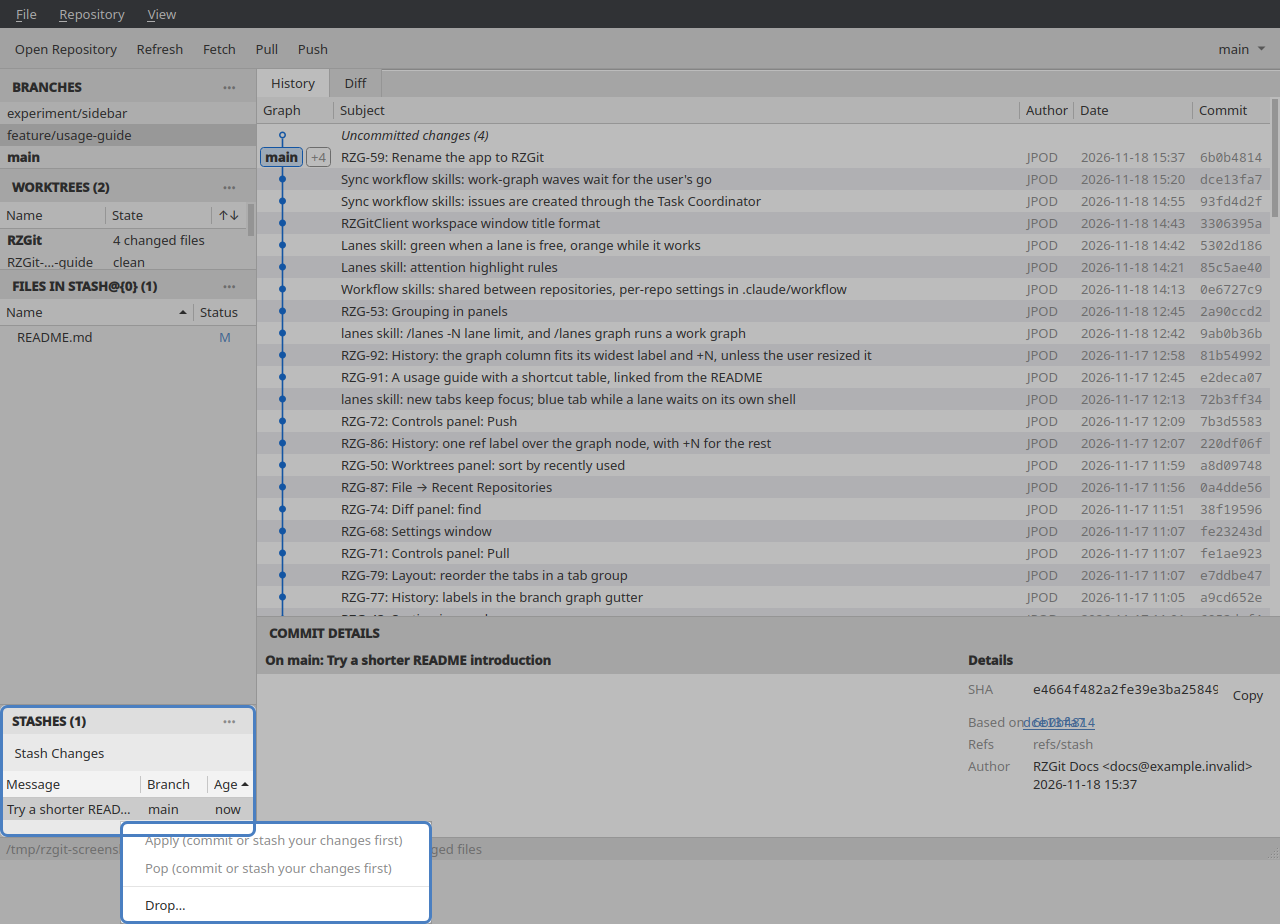
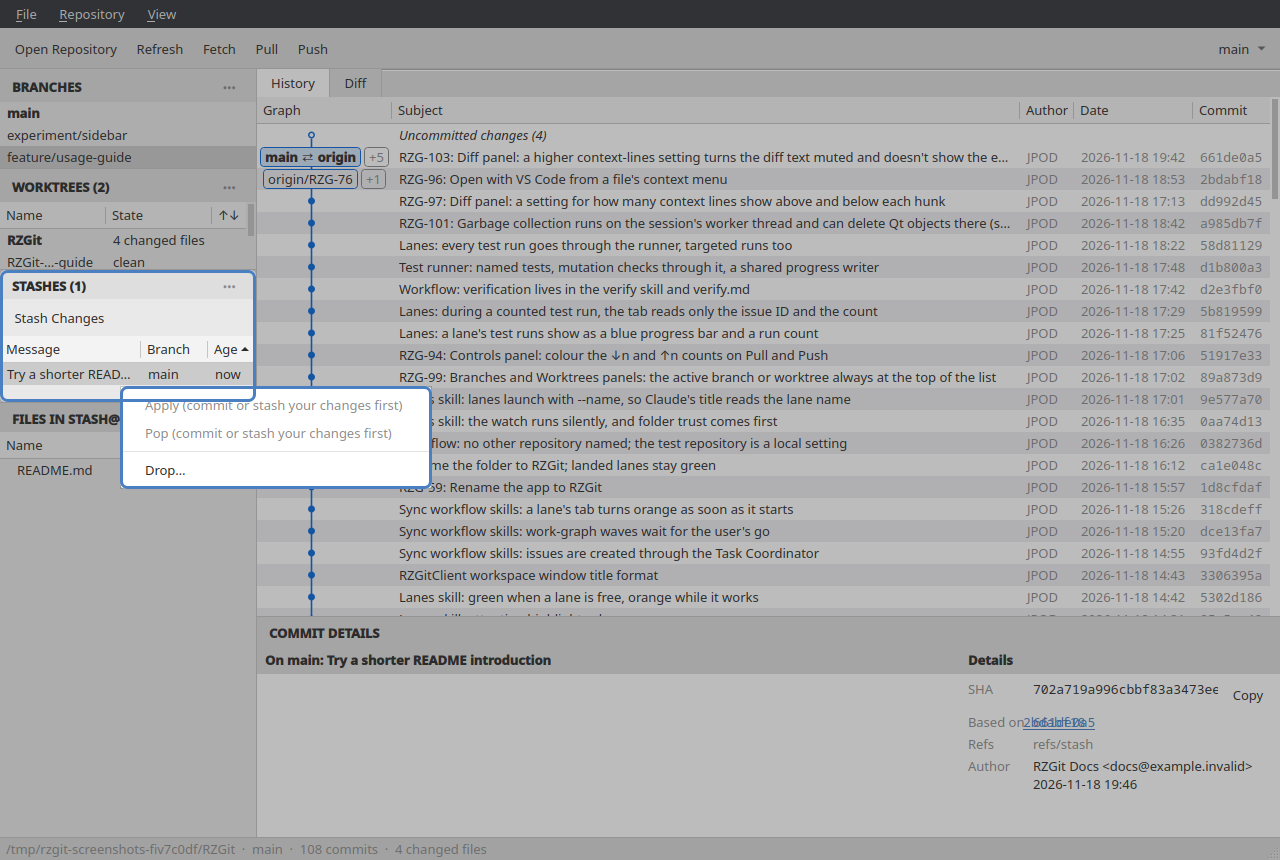
RZG-93: Layout presets: Commit at the bottom of the Sidebar
Standard is now Branches, Worktrees, Stashes, Unstaged Files, Staged Files,
Commit, with Commit Files (size 0) below Commit, so it still takes their place
when a commit is selected. Sidebar Tabs and Stacked already had Commit at the
bottom of their column. A window on the old Standard gets the new one (§6.3);
saved layouts stay. The user guide's overview table and every screenshot follow
the new order.

Also: test_refresh_emits_only_what_changed gives its second commit a later
date and expects branches_changed (Branch.date), so it no longer fails when
the two commits fall in different seconds.

diff --git a/tests/test_layout_presets.py b/tests/test_layout_presets.py
@@ -40,6 +40,22 @@ CUSTOM = LayoutState(
      Area.MAIN: SplitNode(H, (HISTORY, DIFF, DETAILS), sizes=(300, 200, 100))},
     Arrangement.SIDEBAR_RIGHT, (200, 500))
 
+def _column_of(node, panel):
+    """The split that holds ``panel`` directly."""
+    if isinstance(node, SplitNode):
+        if panel in node.children:
+            return node
+        return next((c for c in map(lambda n: _column_of(n, panel), node.children) if c), None)
+    return None
+
+
+# Standard as one tree since RZG-93: Stashes below Worktrees, Commit at the bottom.
+STANDARD = SplitNode(V, (CONTROLS, SplitNode(H, (
+    SplitNode(V, tuple(P(p) for p in ("branches", "worktrees", "stash", "files", "staged",
+                                      "commit", "commit_files")),
+              sizes=(180, 140, 170, 220, 120, 160, 0)),
+    MAIN), sizes=(220, 880))))
+
 # The presets as one tree, as they were before areas (RZG-69).
 OLD_PRESETS = {
     "Standard": SplitNode(V, (CONTROLS, SplitNode(H, (
@@ -77,8 +93,25 @@ class PresetTests(unittest.TestCase):
                 self.assertEqual(preset.state.hidden, {})
 
     def test_the_presets_look_as_they_did_before_areas(self):
-        """RZG-69: as one tree, each preset is the tree it was."""
-        self.assertEqual({p.title: flatten(p.state) for p in PRESETS}, OLD_PRESETS)
+        """RZG-69: as one tree, each preset is the tree it was; Standard has Stashes
+        below Worktrees since (RZG-93)."""
+        self.assertEqual({p.title: flatten(p.state) for p in PRESETS},
+                         {**OLD_PRESETS, "Standard": STANDARD})
+
+    def test_commit_is_the_bottom_panel_of_its_column_in_every_preset(self):
+        """RZG-93: Staged Files directly above it, only Commit Files (size 0) below it."""
+        for preset in PRESETS:
+            with self.subTest(preset.title):
+                column = _column_of(preset.state.tree(Area.SIDEBAR), P("commit"))
+                self.assertEqual(column.children[-3:],
+                                 (P("staged"), P("commit"), P("commit_files")))
+                self.assertEqual(column.sizes[-1], 0)
+
+    def test_a_window_saved_on_the_old_standard_gets_the_new_one(self):
+        """RZG-93 (spec §6.3): a built-in preset follows the code; a saved layout stays."""
+        old = DEFAULT_LAYOUT.with_tree(Area.SIDEBAR, OLD_PRESETS["Standard"].children[1].children[0])
+        self.assertEqual(restore_layout(to_dict(old), "Standard"), DEFAULT_LAYOUT)
+        self.assertEqual(restore_layout(to_dict(old), None), old)
 
     def test_every_preset_has_controls_alone_and_main_in_the_main_pane(self):
         arrangements = {"Standard": Arrangement.SIDEBAR_LEFT,
@@ -147,7 +180,7 @@ class RestoreLayoutTests(unittest.TestCase):
     def test_a_panel_new_in_this_version_goes_to_its_default_place(self):
         # Saved by a version without the Worktrees, Files, Controls, Diff, Staged, Commit,
         # Commit Details, Commit Files and Stashes panels: the user's arrangement is kept,
-        # Worktrees and Files join Branches with Staged, Commit, Commit Files and Stashes
+        # Worktrees, Stashes and Files join Branches with Staged, Commit and Commit Files
         # below it (at the default sizes: that split is the default's now), Controls goes
         # across the top, Diff becomes History's second tab and Commit Details goes below
         # the two (MAIN's sizes: that split is MAIN now).
@@ -156,9 +189,9 @@ class RestoreLayoutTests(unittest.TestCase):
         self.assertEqual(flatten(restored), SplitNode(V, (
             CONTROLS,
             SplitNode(H, (
-                SplitNode(V, (P("branches"), P("worktrees"), P("files"), P("staged"), P("commit"),
-                              P("commit_files"), P("stash")),
-                          sizes=(180, 140, 220, 120, 160, 0, 170)),
+                SplitNode(V, (P("branches"), P("worktrees"), P("stash"), P("files"), P("staged"),
+                              P("commit"), P("commit_files")),
+                          sizes=(180, 140, 170, 220, 120, 160, 0)),
                 MAIN,
             ), sizes=(100, 500)),
         )))
@@ -182,10 +215,10 @@ class RestoreLayoutTests(unittest.TestCase):
         self.assertEqual(restore_layout(saved(before_rzg_18)), DEFAULT_LAYOUT)
 
     def test_stashes_a_tab_only_in_sidebar_tabs(self):
-        """RZG-36: at the bottom of Standard's sidebar, the last tab in Sidebar Tabs, below
-        Branches and Worktrees in Stacked."""
+        """RZG-36: below Branches and Worktrees in Standard (RZG-93) and Stacked, the last
+        tab in Sidebar Tabs."""
         standard, tabs, stacked = (p.state.tree(Area.SIDEBAR) for p in PRESETS)
-        self.assertEqual(standard.children[-1], P("stash"))
+        self.assertEqual(standard.children[:3], (P("branches"), P("worktrees"), P("stash")))
         self.assertEqual(tabs.children[0], TabsNode(
             (P("branches"), P("worktrees"), P("files"), P("stash"))))
         self.assertEqual(stacked.children[0].children,
@@ -232,7 +265,7 @@ class RestoreLayoutTests(unittest.TestCase):
         self.assertEqual(restored.sizes, (300, 700))
         sidebar = restored.tree(Area.SIDEBAR)
         self.assertEqual(panel_ids(sidebar),
-                         ["worktrees", "files", "staged", "commit", "commit_files", "stash",
+                         ["worktrees", "stash", "files", "staged", "commit", "commit_files",
                           "branches"])
         self.assertEqual(sidebar.sizes[-1], 100)  # Branches keeps its own
 
@@ -272,8 +305,11 @@ class MigrationTests(unittest.TestCase):
             with self.subTest(preset.title):
                 mine = resized(OLD_PRESETS[preset.title])
                 restored = restore_layout(saved(mine), preset.title)
-                self.assertEqual(flatten(restored), mine)
                 self.assertEqual(matching_preset(restored), preset.title)
+                if preset.title == "Standard":  # changed since (RZG-93): it follows the code
+                    self.assertEqual(restored, preset.state)
+                else:
+                    self.assertEqual(flatten(restored), mine)
 
     def test_a_preset_with_panels_hidden_keeps_them_hidden_in_their_areas(self):
         for preset in PRESETS:
@@ -353,8 +389,8 @@ class BuiltInLayoutTests(unittest.TestCase):
     def test_a_custom_layout_stays_as_it_is(self):
         restored = restore_layout(saved(self.OLD_STANDARD), None)
         self.assertEqual(restored.panel_ids(),
-                         ["controls", "branches", "worktrees", "files", "staged", "commit",
-                          "commit_files", "stash", "history", "diff", "commit_details"])
+                         ["controls", "branches", "worktrees", "stash", "files", "staged",
+                          "commit", "commit_files", "history", "diff", "commit_details"])
         main = restored.tree(Area.MAIN)
         self.assertEqual(main.children[0],  # Diff still below History, Commit Details below
                          SplitNode(V, (HISTORY, DIFF), sizes=(400, 300)))

diff --git a/tests/test_layout_host.py b/tests/test_layout_host.py
@@ -115,7 +115,7 @@ class LayoutHostTests(unittest.TestCase):
         self.assertTrue(all(isinstance(f, PanelFrame) for f in frames))
         self.assertEqual([f.panel for f in frames],
                          [self.host.panels["branches"], self.host.panels["worktrees"],
-                          self.host.panels["files"]])
+                          self.host.panels["stash"]])
         self.assertEqual(content.orientation(), Qt.Orientation.Vertical)
         tabs, details = content.widget(0), content.widget(1)
         self.assertIsInstance(tabs, QTabWidget)  # History and Diff
@@ -123,8 +123,8 @@ class LayoutHostTests(unittest.TestCase):
                          [self.host.panels["history"], self.host.panels["diff"]])
         self.assertEqual(tabs.currentIndex(), 0)
         self.assertIs(details.panel, self.host.panels["commit_details"])  # below them
-        self.assertEqual([sidebar.widget(i).panel.panel_id for i in range(3, 6)],
-                         ["staged", "commit", "commit_files"])
+        self.assertEqual([sidebar.widget(i).panel.panel_id for i in range(3, 7)],
+                         ["files", "staged", "commit", "commit_files"])  # Commit last (RZG-93)
 
     def test_tabs_use_the_panel_header_and_follow_it(self):
         apply_to(self.host, TABS)
@@ -231,8 +231,8 @@ class LayoutHostTests(unittest.TestCase):
         self.host.show_panel("files")
         self.assertEqual(self.host.hidden, {})
         sidebar = self.sidebar()
-        self.assertEqual([sidebar.widget(i).panel.panel_id for i in range(3)],
-                         ["branches", "worktrees", "files"])
+        self.assertEqual([sidebar.widget(i).panel.panel_id for i in range(4)],
+                         ["branches", "worktrees", "stash", "files"])
         self.assertEqual(len(changes), 3)  # apply, hide, show
 
     def test_the_last_panel_can_not_be_hidden(self):

diff --git a/tests/test_repo_session.py b/tests/test_repo_session.py
@@ -1,4 +1,6 @@
+import os
 import shutil
+import subprocess
 import tempfile
 import unittest
 from pathlib import Path
@@ -191,14 +193,20 @@ class RepoSessionTests(unittest.TestCase):
 
     def test_refresh_emits_only_what_changed(self):
         self.open_and_clear()
-        commit_file(self.path, "a.txt", "2", "second")
+        (self.path / "a.txt").write_text("2")
+        git(self.path, "add", "a.txt")
+        # A later date than the first commit's, always: a commit in the same second would
+        # leave the branch's date (Branch.date) as it was, and then the branches wouldn't change.
+        env = {**os.environ, "GIT_COMMITTER_DATE": "2099-01-01T00:00:00Z"}
+        subprocess.run(["git", "commit", "-q", "-m", "second"], cwd=self.path, check=True,
+                       capture_output=True, env=env)
         self.session.refresh()
         wait_idle(self.session)
-        # A new commit moves HEAD's sha and its branch's ref, and changes history,
-        # status and the count; the branch and the branch list (names, which is
-        # current) stay.
-        self.assertEqual(self.rec.names(), ["head_sha_changed", "refs_changed", "history_changed",
-                                            "status_changed", "commit_count_changed"])
+        # A new commit moves HEAD's sha, its branch's tip date and its ref, and changes
+        # history, status and the count; the branch names and which is current stay.
+        self.assertEqual(self.rec.names(), ["head_sha_changed", "branches_changed", "refs_changed",
+                                            "history_changed", "status_changed",
+                                            "commit_count_changed"])
 
     # ---- refs (RZG-77) ----------------------------------------------------
 

diff --git a/src/rzgit/ui/layout/layout_presets.py b/src/rzgit/ui/layout/layout_presets.py
@@ -58,12 +58,13 @@ def _areas(arrangement: Arrangement, sidebar: LayoutNode,
 # In every preset Staged Files, Commit and Commit Files are directly below
 # (Unstaged) Files, as in GitKraken: Commit Files takes the place of the other
 # three while a commit is selected (spec §5.4). Its size is 0: it always takes
-# theirs (§6.2). Standard: Branches, Worktrees, Unstaged Files, Staged Files,
-# Commit and Stashes stacked in the Sidebar, left of the Main pane.
+# theirs (§6.2). Commit is the bottom panel of its column, with only Commit Files
+# below it (RZG-93). Standard: Branches, Worktrees, Stashes, Unstaged Files,
+# Staged Files and Commit stacked in the Sidebar, left of the Main pane.
 DEFAULT_LAYOUT = _areas(
     Arrangement.SIDEBAR_LEFT,
-    SplitNode(V, (BRANCHES, WORKTREES, FILES, STAGED, COMMIT, COMMIT_FILES, STASH),
-              sizes=(180, 140, 220, 120, 160, 0, 170)),
+    SplitNode(V, (BRANCHES, WORKTREES, STASH, FILES, STAGED, COMMIT, COMMIT_FILES),
+              sizes=(180, 140, 170, 220, 120, 160, 0)),
     (220, 880))
 
 PRESETS = (

diff --git a/tests/test_main_window.py b/tests/test_main_window.py
@@ -350,7 +350,8 @@ class MainWindowTests(unittest.TestCase):
                          ["commit_files"])
         self.assertTrue(panels["commit_files"].isVisible())
         files_at = sidebar.indexOf(panels["commit_files"].parentWidget())
-        self.assertEqual(sidebar.sizes()[files_at], sum(working[1:files_at + 1]))
+        freed = sum(working[sidebar.indexOf(panels[pid].parentWidget())] for pid in swapped)
+        self.assertEqual(sidebar.sizes()[files_at], freed)
         # Commit Details below History and Diff, at its height from the tabs above it.
         details = panels["commit_details"]
         self.assertTrue(details.isVisible())

diff --git a/docs/screenshots/make_screenshots.py b/docs/screenshots/make_screenshots.py
@@ -347,8 +347,8 @@ def shot_overview(app: App) -> None:
     app.panel("history").request_activation()
     p = picture(app)
     p.badge(1, app.panel("controls"), "center")
-    for number, panel_id in enumerate(("branches", "worktrees", "files", "staged", "commit",
-                                       "stash"), start=2):
+    for number, panel_id in enumerate(("branches", "worktrees", "stash", "files", "staged",
+                                       "commit"), start=2):
         p.badge(number, pane(app.panel(panel_id)), "header")
     p.badge(8, tabs(app, "history"), "right")
     p.badge(9, app.window.statusBar(), "inside-right")

diff --git a/docs/USAGE.md b/docs/USAGE.md
@@ -74,10 +74,10 @@ pane** holds the larger panels. With the Standard layout, the panels are:
 | 1 | Controls | Buttons for Open Repository, Refresh, Fetch, Pull and Push, and the branch button on the right. |
 | 2 | Branches | The local branches. The current branch is in bold. |
 | 3 | Worktrees | The repository's worktrees. It only appears once there are at least two. |
-| 4 | Unstaged Files | Files with changes that are not staged yet, including new files. |
-| 5 | Staged Files | Files with staged changes. It only appears when something is staged. |
-| 6 | Commit | The message of the commit you are writing. It only appears when something is staged. |
-| 7 | Stashes | The stashes, newest first. |
+| 4 | Stashes | The stashes, newest first. |
+| 5 | Unstaged Files | Files with changes that are not staged yet, including new files. |
+| 6 | Staged Files | Files with staged changes. It only appears when something is staged. |
+| 7 | Commit | The message of the commit you are writing, at the bottom. It only appears when something is staged. |
 | 8 | History and Diff | The list of commits, and the changes in the selected file, as two tabs. |
 | 9 | The status bar | The folder, the branch, the number of commits and the number of changed files. |
 
@@ -113,6 +113,8 @@ working in.
   left, above Staged Files and Commit.
 - **Stacked** puts the Main pane across the top, with the branches and files side by side
   below it.
+
+In each of them, Commit is the bottom panel of the Sidebar, directly below Staged Files.
 
 **Save Layout As…** saves the current arrangement under a name of your choice, and that
 name then appears in the Layout menu. **Manage Layouts…** renames and deletes the layouts

diff --git a/docs/ARCHITECTURE.md b/docs/ARCHITECTURE.md
@@ -1962,11 +1962,14 @@ panel. Each has the Controls panel alone in the Controls area, and an arrangemen
 Main pane holds `MAIN` in every preset: History and Diff are tabs of one group, with History current, and Commit Details below
 the group in a vertical split of their own (`MAIN`: `Split(V, [Tabs([history, diff]),
 commit_details], sizes=(500, 220))`, RZG-65). Staged Files, Commit and Commit Files are
-directly below Unstaged Files (`files`), in that order:
+directly below Unstaged Files (`files`), in that order, and **Commit is the bottom panel
+of its Sidebar column** in every preset (RZG-93): only Commit Files is below it, and it
+has no space of its own until a commit is selected.
 - **Standard** (`DEFAULT_LAYOUT`, `SIDEBAR_LEFT`, sizes (220, 880)): the Sidebar holds
-  Branches, Worktrees, Unstaged Files, Staged Files, Commit, Commit Files and Stashes
-  stacked: `Split(V, [branches, worktrees, files, staged, commit, commit_files, stash],
-  sizes=(180, 140, 220, 120, 160, 0, 170))`. Commit Files' size is 0 in every preset: it
+  Branches, Worktrees, Stashes, Unstaged Files, Staged Files, Commit and Commit Files
+  stacked: `Split(V, [branches, worktrees, stash, files, staged, commit, commit_files],
+  sizes=(180, 140, 170, 220, 120, 160, 0))`. The repository's lists are at the top and
+  staging and committing at the bottom. Commit Files' size is 0 in every preset: it
   has no space of its own (§6.2, swaps).
 - **Sidebar Tabs** (`SIDEBAR_LEFT`): the Sidebar holds Branches, Worktrees, Unstaged Files
   and Stashes as tabs, with Staged Files, Commit and Commit Files below the tabs.
